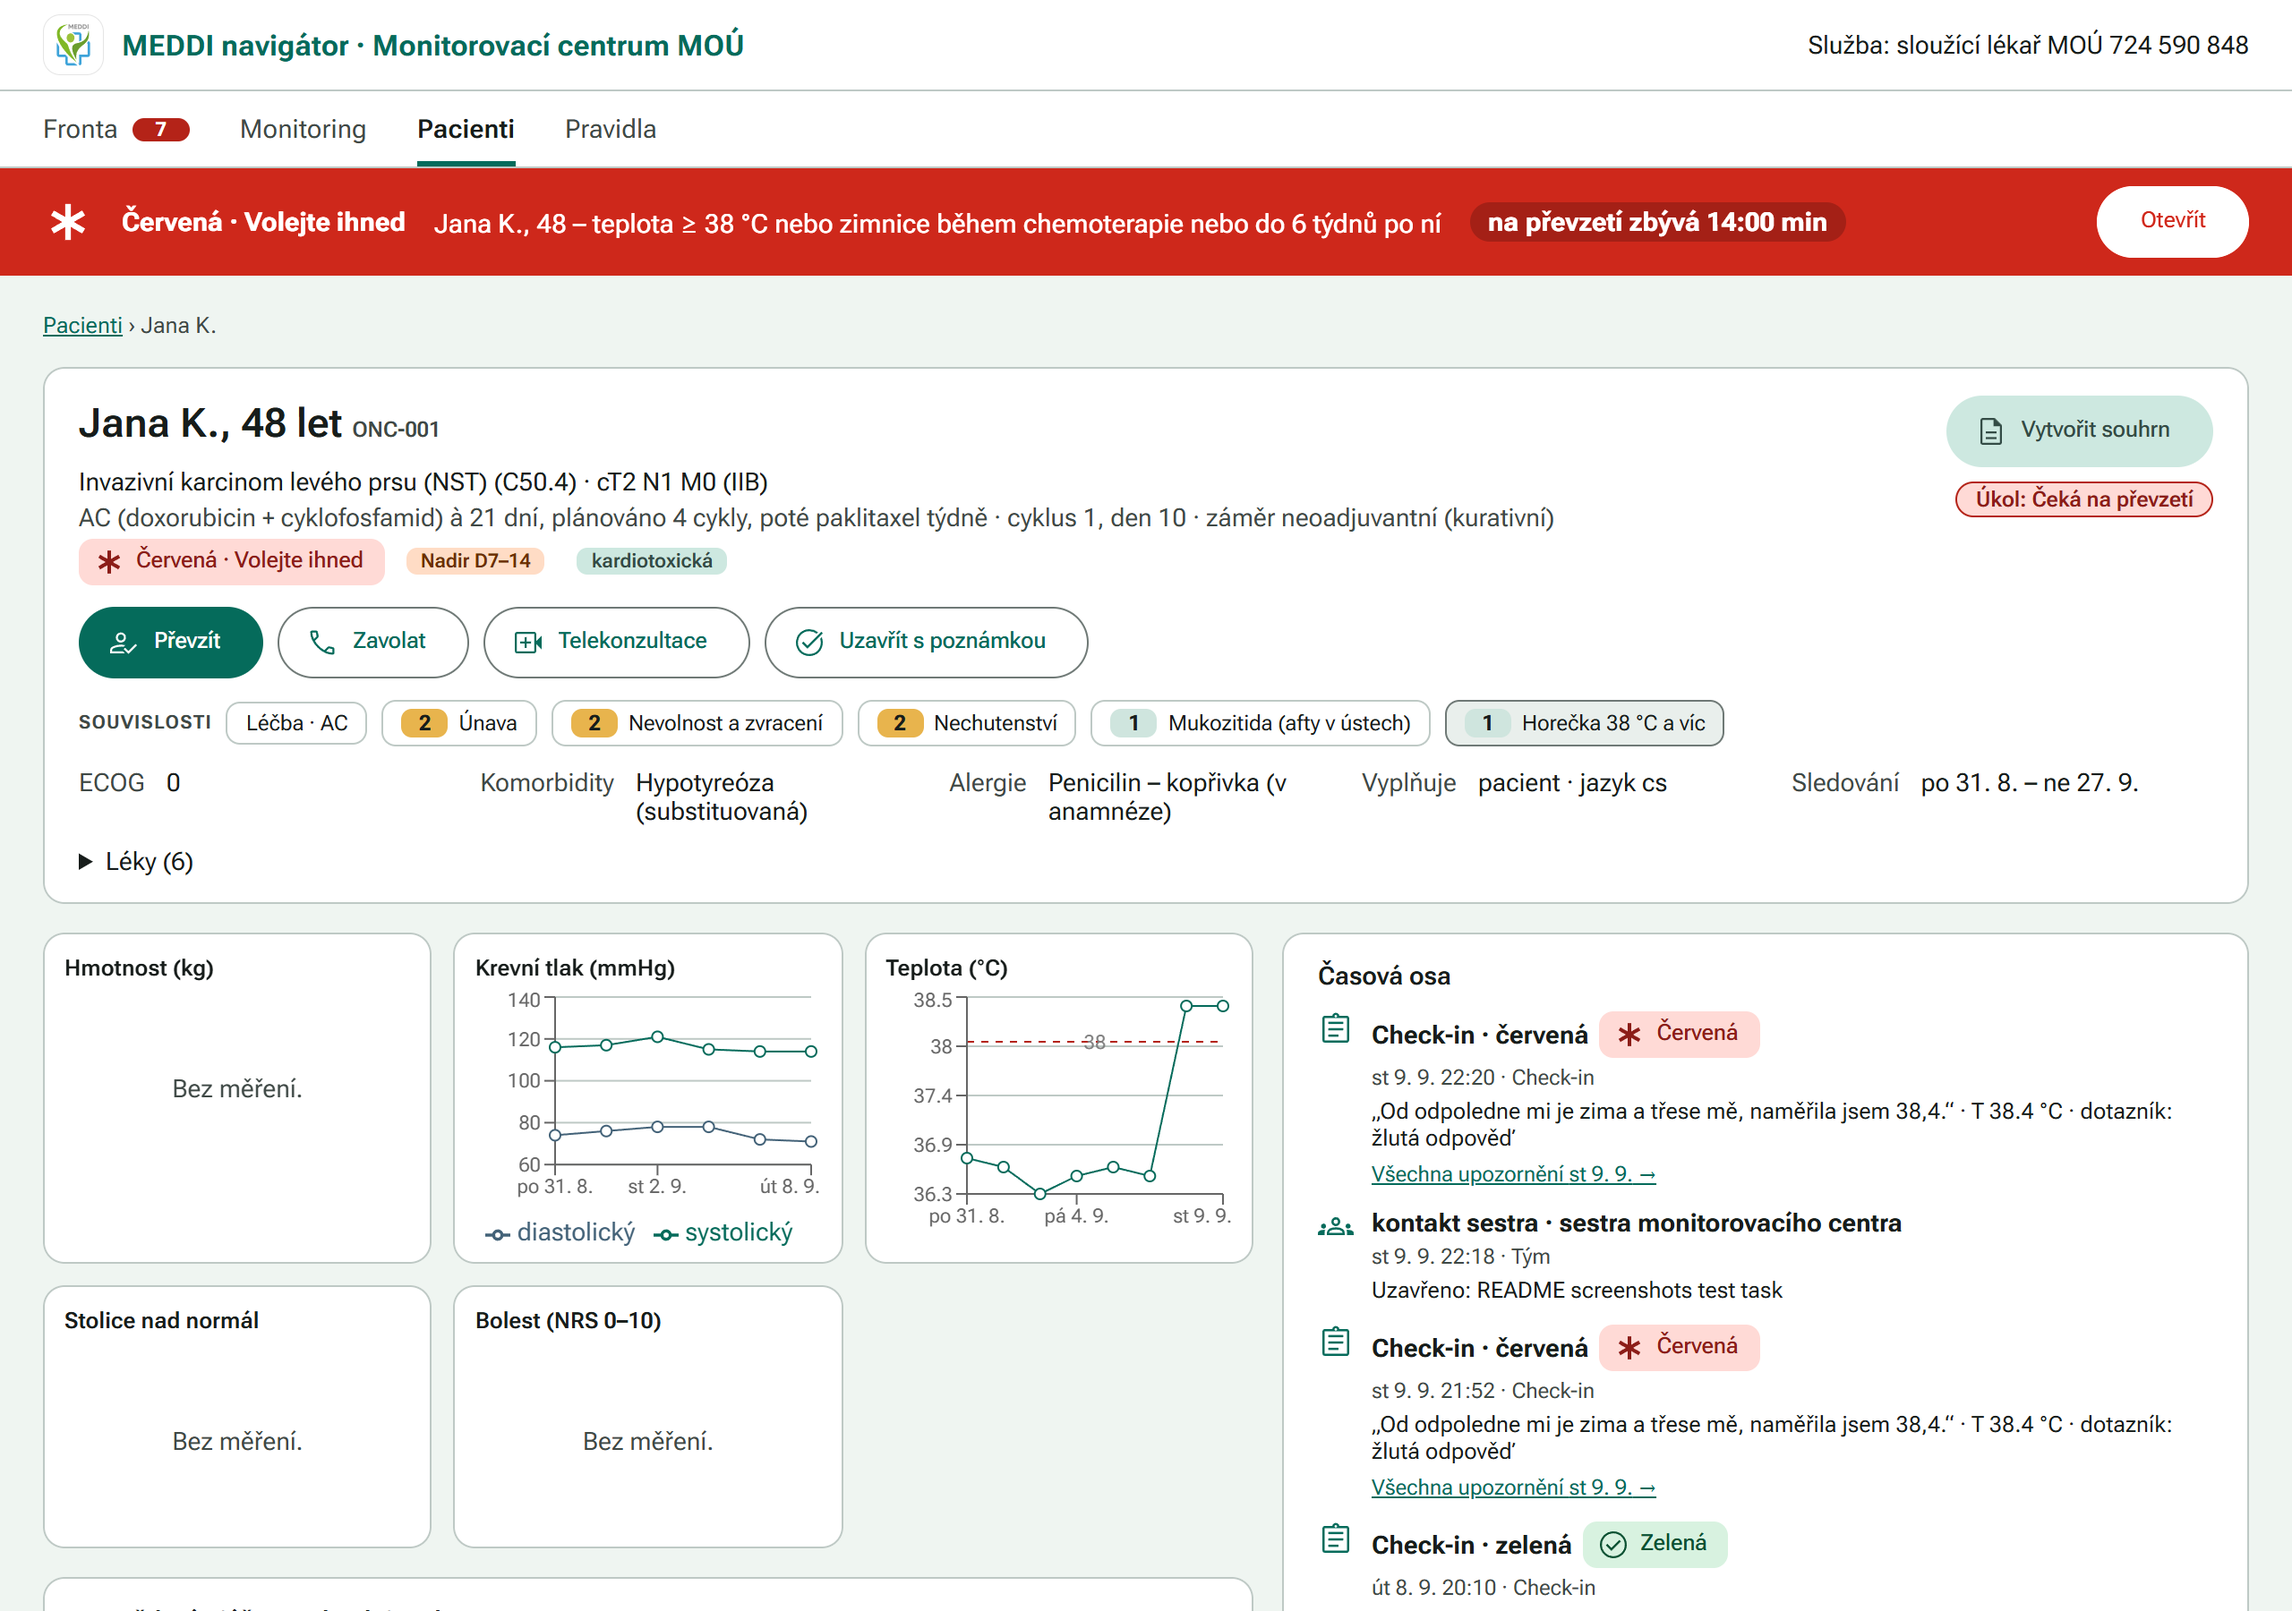
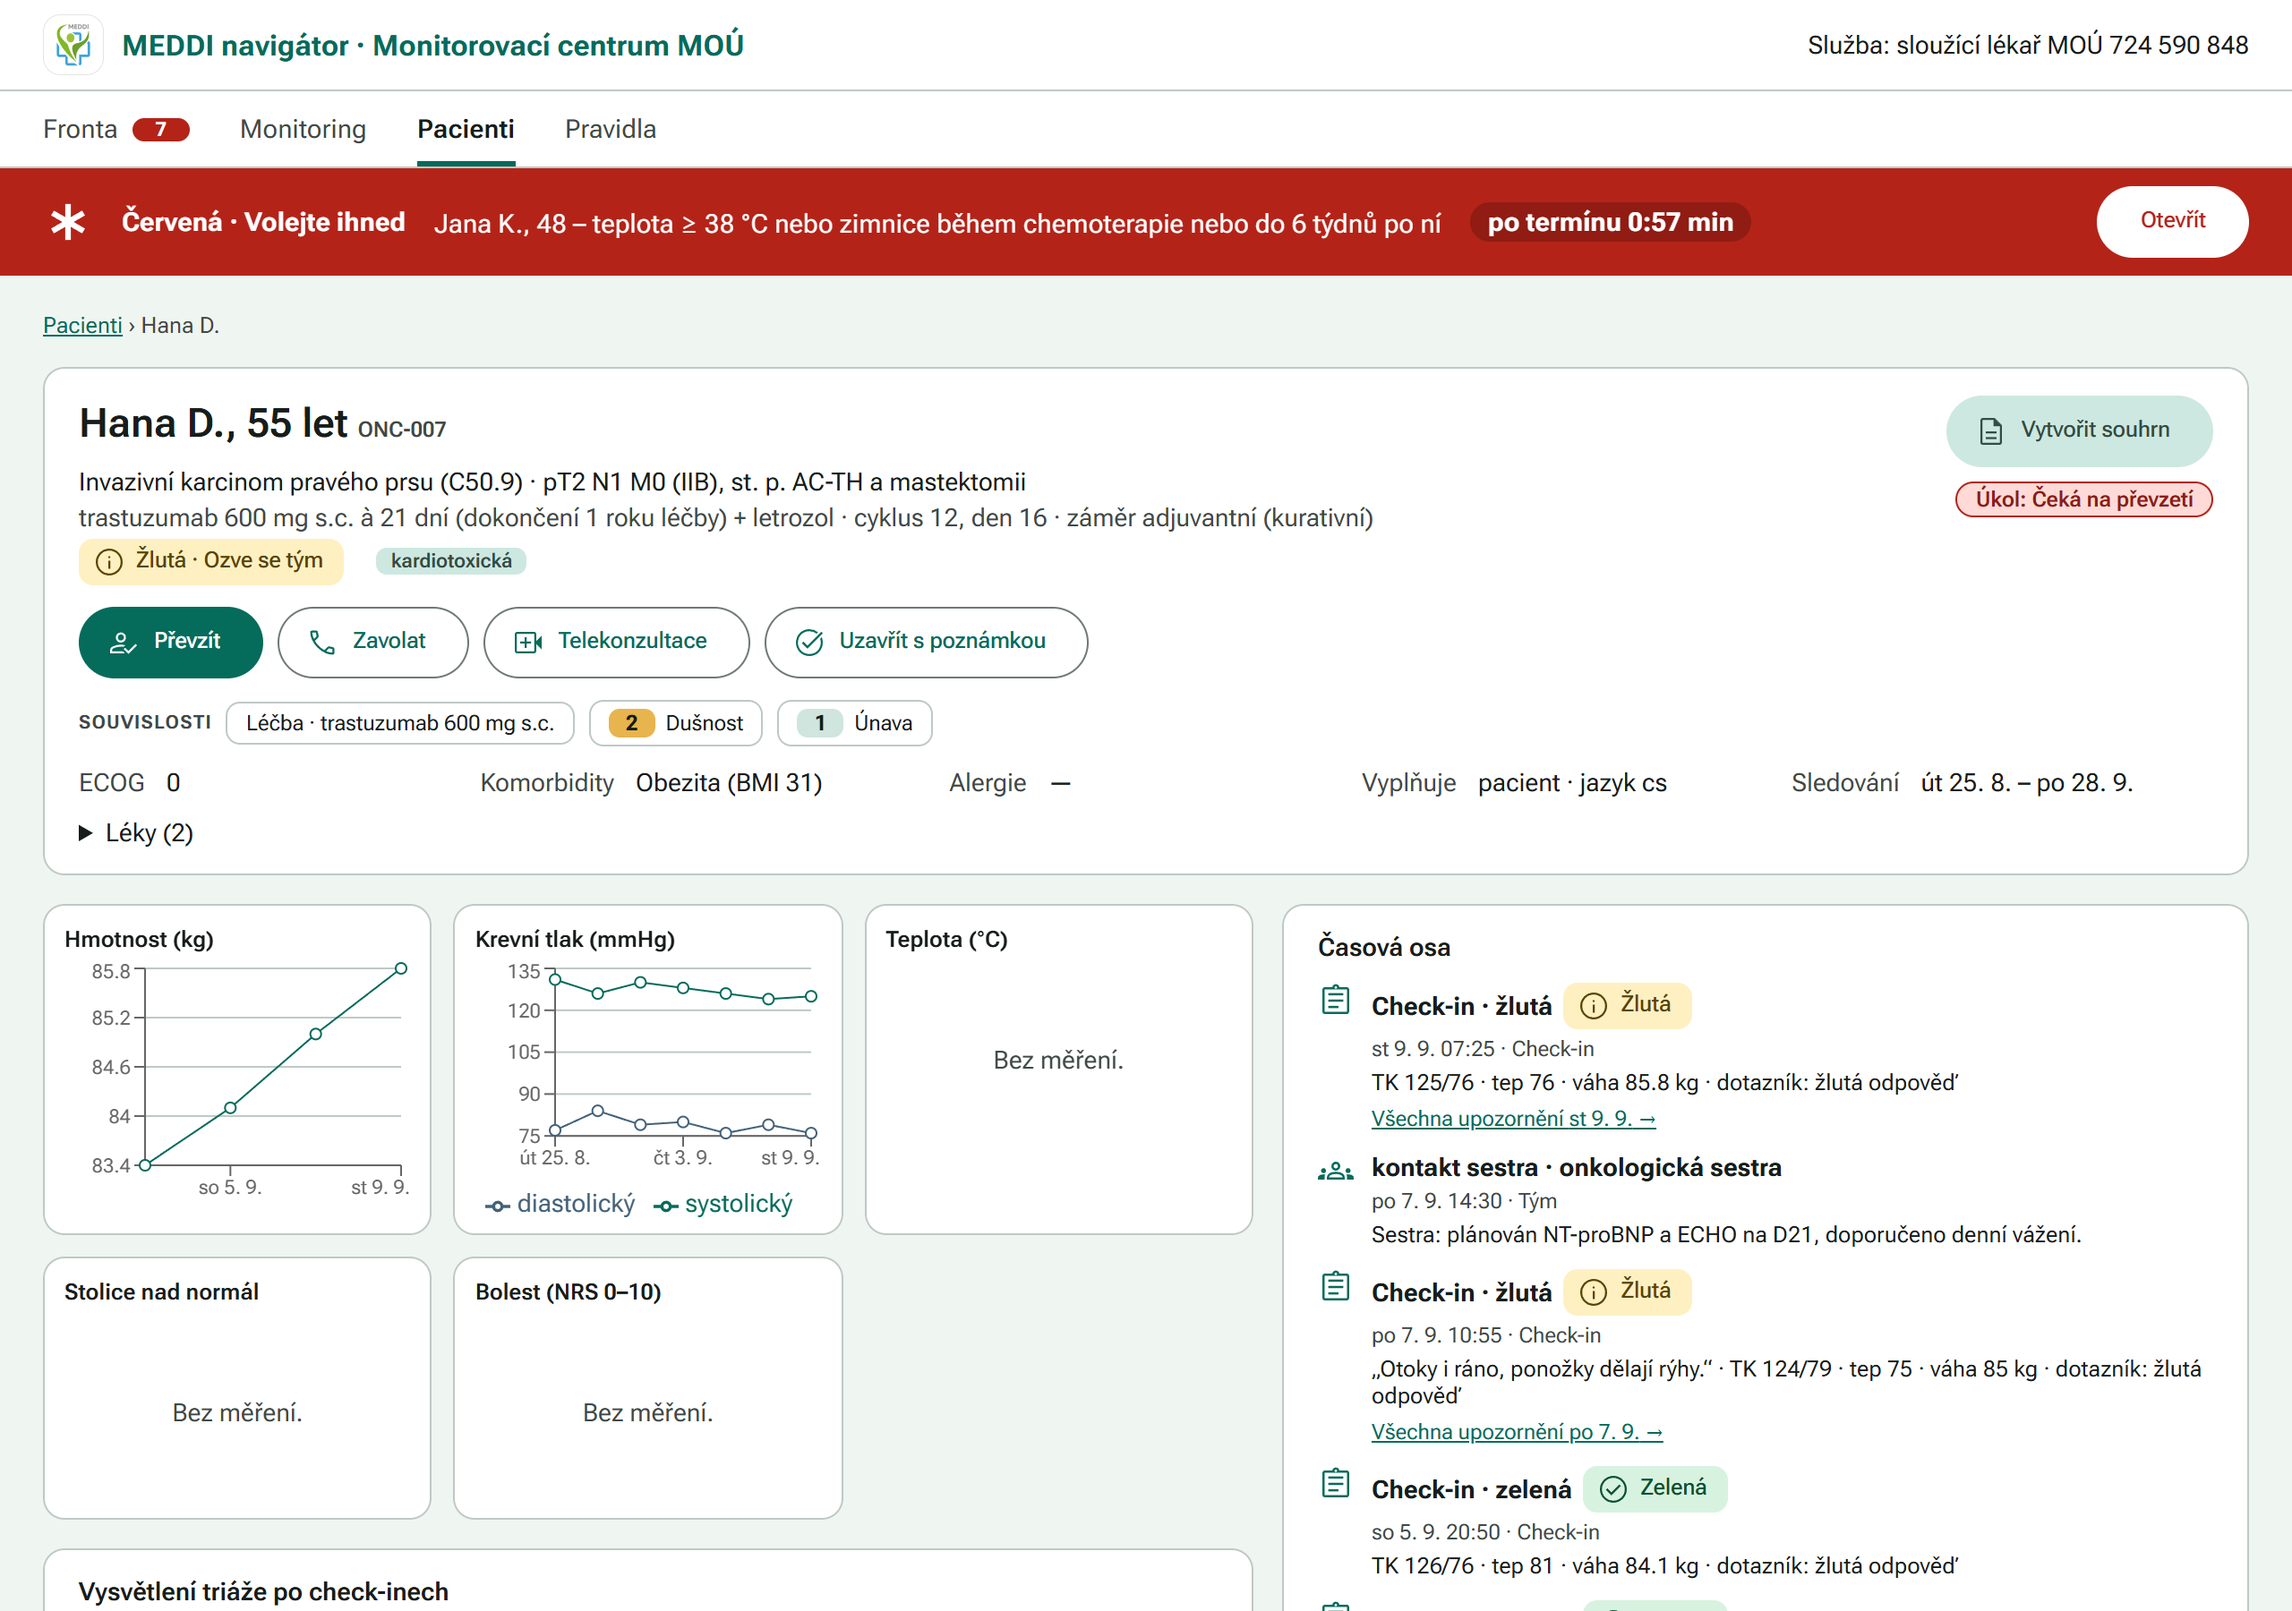
Fix the README demo instructions after a review
ONC-014's chat already opens in caregiver mode, so the instructions no longer
tell the reader to tap the chip (that turned the mode off). The check-in
steps use the exact option labels, the demo clock is described as running in
real time, the MEDDI mock endpoint notes that it is empty until a new alert,
and the challenge links to the Prague track on rakathon.cz. The patient
detail screenshot now shows Hana D.'s weight trend on trastuzumab instead of
a patient with leftover test entries.

diff --git a/README.md b/README.md
@@ -6,7 +6,7 @@
 
 **One check-in between oncology visits: the patient learns what to do next, the right clinician learns how fast.**
 
-[![Rakathon 2026](https://img.shields.io/badge/Rakathon-2026-0E6B5C)](https://www.rakathon.cz/eng)
+[![Rakathon 2026](https://img.shields.io/badge/Rakathon-2026-0E6B5C)](https://www.rakathon.cz/#rv-praha)
 [![InterSystems IRIS for Health](https://img.shields.io/badge/InterSystems-IRIS%20for%20Health-333695)](docs/intersystems.md)
 [![FHIR R4](https://img.shields.io/badge/HL7%20FHIR-R4-E44D26)](docs/fhir-mapping.md)
 [![Red recall](https://img.shields.io/badge/red%20recall-100%25-B3261E)](#metrics)
@@ -27,7 +27,8 @@ doctor gets the task with the SLA countdown and a 30-second summary.</sub>
 
 ## The challenge
 
-Our entry for **5. MEDDI ONCO Challenge** (set by MEDDI Hub) at [Rakathon 2026](https://www.rakathon.cz/eng), also
+Our entry for the **MEDDI ONCO Challenge** (challenge 5 of the Prague track, set by MEDDI Hub) at
+[Rakathon 2026](https://www.rakathon.cz/#rv-praha), also
 submitted to the [InterSystems challenge](https://developer.intersystems.com/intersystems-challenge-at-rakathon-2026/).
 The brief: an AI navigator that supports an oncology patient also *between* check-ups. It keeps following the
 symptoms, recognises risky changes and recommends a safe next step; when the patient gets worse, it alerts the care
@@ -36,10 +37,10 @@ team in time and gives the doctor a short, clear overview of how the patient's c
 | The brief asks for | What the navigator does | See |
 |---|---|---|
 | Support between check-ups | Patient PWA: a check-in tailored to the treatment, navigator chat in Czech and Slovak, caregiver mode, history | [Patient PWA](#patient-pwa) |
-| Keep following the symptoms | Every check-in and chat message is read with the earlier days: trends, the patient's own baselines, missed check-ins | [Monitoring](#clinician-web) |
+| Keep following the symptoms | Every check-in and chat message is read with the earlier days: trends, the patient's own baselines, missed check-ins | [Triage flow](#how-a-check-in-is-triaged) |
 | Recognise risky changes | 49 deterministic rules, treatment context (nadir, drug classes), contradictions between the form and the free text | [Triage rules](#triage-rules) |
 | Recommend a safe next step | One of four levels with one step and the right phone numbers; validated texts, no diagnosis, no dose changes | [Red card](#patient-pwa) |
-| Alert the team in time | A task in the monitoring-centre queue with an SLA timer (15 min for red), routed by working hours; the alert also goes through the IRIS production | [Queue](#clinician-web) |
+| Alert the team in time | A task in the clinician queue with an SLA timer (15 min for red), owned by the monitoring centre in working hours and by the on-duty doctor out of hours; the alert also goes through the IRIS production | [Queue](#clinician-web) |
 | A short overview for the doctor | A 30-second summary: why now, treatment, trend, labs, what the patient does not report | [Queue](#clinician-web) |
 
 ## How it works
@@ -66,14 +67,15 @@ Working hours of the monitoring centre: Mon–Fri 07:00–15:30, Europe/Prague.
 ## Live demo
 
 Synthetic data only. The demo clock starts on Wed 9 Sep 2026 21:50, out of working hours, so new tasks go to the
-on-duty doctor; a restart of the API resets the demo state.
+on-duty doctor, and then runs in real time (after about 9 hours it reaches Thu 07:00 and new tasks go to the
+monitoring centre). A restart of the API resets the clock and the demo state.
 
 | | Link | What to try |
 |---|---|---|
 | **Patient app** | [pacient.nastasiya.com](https://pacient.nastasiya.com/?patient=ONC-001) | Open it at phone width (or install it); the *DEMO* bar on top switches the patient |
-| | [`?patient=ONC-001`](https://pacient.nastasiya.com/?patient=ONC-001) | Jana K., AC cycle 1 day 10 (nadir): *Vyplnit dotazník*, tick fever and fatigue, 38,4 → red |
-| | [`?patient=ONC-018`](https://pacient.nastasiya.com/?patient=ONC-018) | Štefan Ď., Slovak: only *Únava*, message „od vcera mam hnacku asi 6 krat, slaby som“ → orange with a follow-up |
-| | [`/navigator?patient=ONC-014`](https://pacient.nastasiya.com/navigator?patient=ONC-014) | Ludmila T., palliative care: *Píšu za blízkou osobu* → „Můžu mamince dát další Oramorph?“ |
+| | [`?patient=ONC-001`](https://pacient.nastasiya.com/?patient=ONC-001) | Jana K., AC cycle 1 day 10 (nadir): *Check-in* tab, tick *Zvýšená teplota a horečky* and *Únava a slabost*, then *Teplota* 38,4 on the *Naměřené hodnoty* step → red |
+| | [`?patient=ONC-018`](https://pacient.nastasiya.com/?patient=ONC-018) | Štefan Ď., Slovak: tick only *Únava a slabost*, message „od vcera mam hnacku asi 6 krat, slaby som“ → orange with a follow-up |
+| | [`/navigator?patient=ONC-014`](https://pacient.nastasiya.com/navigator?patient=ONC-014) | Ludmila T., palliative care, her daughter writes: the chat opens in caregiver mode (*Píšete za: maminka*, leave it on) → „Můžu mamince dát další Oramorph?“ |
 | **Clinician web** | [lekar.nastasiya.com](https://lekar.nastasiya.com/#/fronta) | Desktop browser |
 | | [`#/fronta`](https://lekar.nastasiya.com/#/fronta) | Queue: level, SLA countdown, task actions, 30-second summary |
 | | [`#/monitoring`](https://lekar.nastasiya.com/#/monitoring) | Alerts and check-ins over time, by treatment and by symptom |
@@ -83,7 +85,7 @@ on-duty doctor; a restart of the API resets the demo state.
 | | [`#/pravidla`](https://lekar.nastasiya.com/#/pravidla) | Routing by working hours, SLA and the rules |
 | | [`#/test-notifikace?patient=ONC-001`](https://lekar.nastasiya.com/#/test-notifikace?patient=ONC-001) | Web Push test: turn notifications on in the patient app on a real phone, send a test notification from here, a tap opens the check-in |
 | **API** | [`/api/health`](https://lekar.nastasiya.com/api/health) | Status of IRIS, FHIR, the LLM and the MCP server |
-| | [`/mock/meddi/requests`](https://lekar.nastasiya.com/mock/meddi/requests) | Alerts that the IRIS production forwarded to the proposed MEDDI endpoint |
+| | [`/mock/meddi/requests`](https://lekar.nastasiya.com/mock/meddi/requests) | Alerts (levels 2–4) that the IRIS production forwarded to the proposed MEDDI endpoint; empty after a restart until a new check-in or chat message reaches yellow or higher |
 
 ## What it looks like
 
@@ -126,9 +128,9 @@ on-duty doctor; a restart of the API resets the demo state.
 
 <sub><b>Queue.</b> Sorted by level, then SLA; the red banner stays on every page until someone takes the task over.</sub>
 
-<img src="docs/screenshots/doctor-patient.png" width="100%" alt="Patient detail: diagnosis, regimen, nadir and cardiotoxic tags, vitals charts and timeline">
+<img src="docs/screenshots/doctor-patient.png" width="100%" alt="Patient detail of Hana D. on trastuzumab: cardiotoxic tag, weight rising from 83.4 to 85.8 kg, blood pressure chart and a timeline with check-ins and a nurse note">
 
-<sub><b>Patient detail.</b> Regimen and cycle day, nadir and drug-class tags, vitals trends, a timeline in the patient's own words.</sub>
+<sub><b>Patient detail.</b> Hana D. on trastuzumab (cardiotoxic): weight 83.4 → 85.8 kg in 6 days, blood pressure, a timeline of check-ins and team notes.</sub>
 
 <img src="docs/screenshots/doctor-monitoring.png" width="100%" alt="Monitoring: alert and check-in charts over one range strip, alerts by treatment">
 
@@ -280,7 +282,7 @@ Before: `bash scripts/seed.sh --datasets dev,rozsirena --reset`, start API, MCP 
    with the follow-up „Píšete, že máte hnačku asi 6× za deň – je to tak?“ → *Odpovedať* → „Uz je to lepsie, dnes len
    3 krat“ → the navigator re-triages with the answer: yellow (Y-IRINOTECAN), next working day. The open orange task is
    not lowered automatically; a person closes it.
-5. **Caregiver guardrail.** PWA `?patient=ONC-014` → *Navigátor* → *Píšu za blízkou osobu* → „Můžu mamince dát další
+5. **Caregiver guardrail.** PWA `?patient=ONC-014` → *Navigátor* (opens in caregiver mode, *Píšete za: maminka*) → „Můžu mamince dát další
    Oramorph?“ → no permission, the prescription quoted verbatim („Morfin roztok (Oramorph) 10 mg, max 6× denně“),
    the 24h palliative team or hospice line, then 155, and the question how many doses were given; answer „Dostala už
    dvě dávky a bolest je pořád 8“ → orange (O-PAIN), on-duty doctor.
